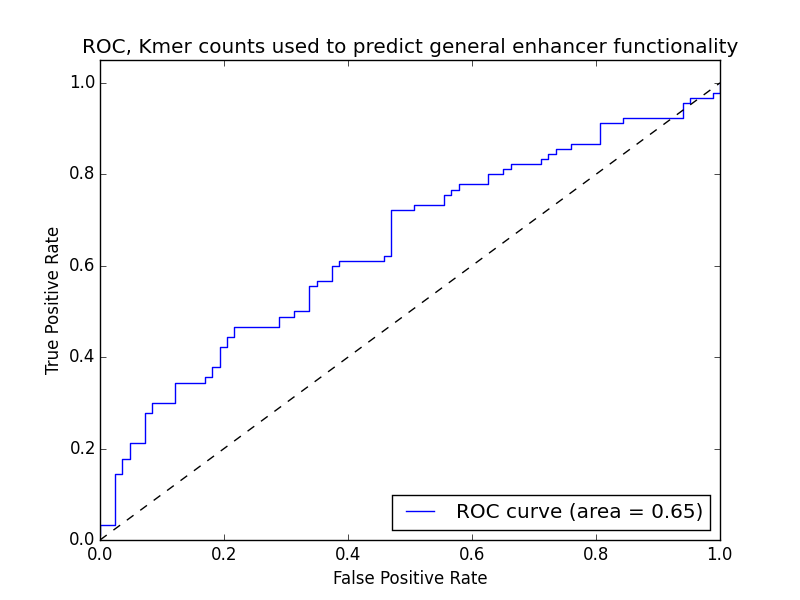
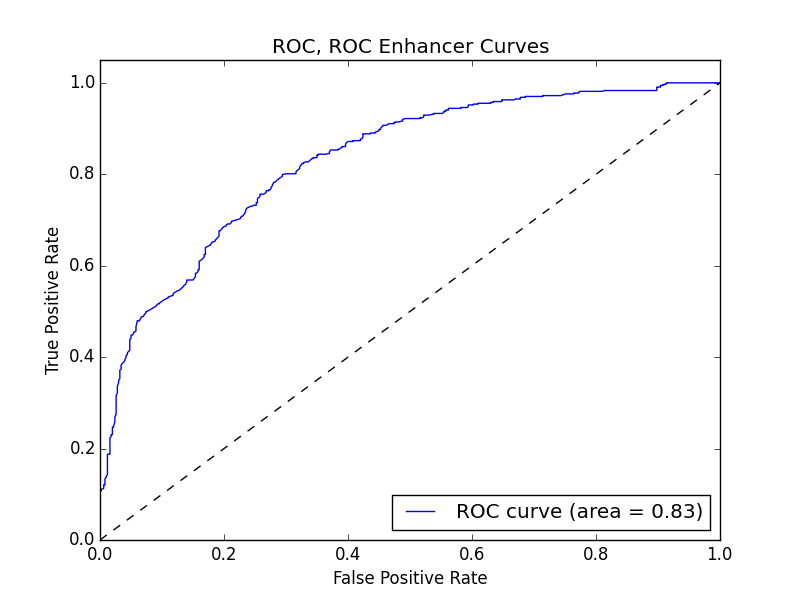
Better roc + one-v-one for tissues.

diff --git a/src/fg_clf.py b/src/fg_clf.py
@@ -37,9 +37,11 @@ from sklearn.feature_selection import chi2
 
 from matplotlib import pyplot as plt
 
-FEATURE_SELECTION = True
+FEATURE_SELECTION = False
 
 FOLD_CV = False
+
+SPLIT_CV = True
 
 PLOT_RESULTS = True
 
@@ -47,21 +49,36 @@ NORMALIZE = True
 
 GLOBAL_K = 6
 
-import time
+
+def fg_label_fn(d):
+    """ converts descriptions to multi-label
+    brain label.
+    Indices in label correspond to:
+        1 => "forebrain"
+        2 => "midbrain"
+        3 => "hindbrain"
+    """
+    label = [0, 0, 0]
+    for raw in description.split("|")[4:]:
+        line = raw.strip()
+        if "midbrain" in line:
+            label[0] = 1
+        if "forebrain" in line:
+            label[1] = 1
+        if "hindbrain" in line:
+            label[2] = 1
+    return label
+
+
 if __name__ == "__main__":
-    start = time.clock()
     parser = argparse.ArgumentParser()
     parser.add_argument("pos_exs", help="path to pos examples")
-    parser.add_argument("neg_exs", help="path to neg examples")
-    args = parser.parse_args()
+    parser.add_argument("neg_exs", help="path to neg examples", default=None)
 
     pos_dataset = args.pos_exs
     neg_dataset = args.neg_exs
 
-    pos_seq, pos_labels = parse_fa(pos_dataset, 1)
-    neg_seq, neg_labels = parse_fa(neg_dataset, -1)
-    examples = np.concatenate((pos_seq, neg_seq))
-    labels = np.concatenate((pos_labels, neg_labels))
+    examples, labels = parse_fa_fine_grain(pos_dataset, fg_label_fn)
 
     # feature vector index :=> kmer string
     kmers_index = get_kmers_index_lookup()
@@ -78,35 +95,43 @@ if __name__ == "__main__":
     taat_col = get_taat_col(examples)
     X = np.hstack((X, taat_col))
 
-    clf = svm.SVC(kernel='rbf')
+    clf = None
+    if prediction_type != "enhancer":
+        svc = svm.SVC(kernel='rbf')
+        clf = OneVsRestClassifier(svc)
+    else:
+        clf = svm.SVC(kernel='rbf')
 
     if FEATURE_SELECTION:
         print "Feature selecting top 10 features"
         # Remove low-variance features
         # K-best features
-        X = SelectKBest(chi2, k=600).fit_transform(X, y)
+        X = SelectKBest(chi2, k=10).fit_transform(X, y)
 
     if FOLD_CV:
         print "Performing 5-fold cv"
         scores = cv.cross_val_score(
-            clf, Xt, y, cv=5, scoring="roc_auc"
+            clf, X, y, cv=5, scoring="roc_auc"
         )
         print "%d-fold cv, average auRoc %f" % (len(scores), scores.mean())
 
-    if PLOT_RESULTS:
+    if SPLIT_CV:
         print "Performing train/test split cv"
         X_train, X_test, y_train, y_test = cv.train_test_split(
             X, y, test_size=0.3, random_state=0
         )
         clf.fit(X_train, y_train)
 
-        print "Plotting results"
-        y_scores = clf.decision_function(X_test)
-        plot_roc(y_test, y_scores, "ROC Enhancer", 
-            out="figures/roc-curve-enh-fsel.png")
-        # plot_precision_recall(y_true, y_scores)
-        # plot_2d_results(X_test, y_test, clf.predict(X_test))
-        print "Done plotting"
-    
-    end = time.clock()
-    print "time taken : %fs" % (end - start)
+        if PLOT_RESULTS:
+            print "Plotting results"
+            # transform labels from [-1,1] to [0,1]
+            if prediction_type == "enhancer":
+                y_true = label_binarize(y_test, classes=[-1, 1])
+            else:
+                y_true = y_test
+
+            y_scores = clf.decision_function(X_test)
+
+            plot_roc(y_true, y_scores, prediction_type)
+            # plot_precision_recall(y_true, y_scores)
+            # plot_2d_results(X_test, y_test, clf.predict(X_test))

diff --git a/src/tissue_clf.py b/src/tissue_clf.py
@@ -37,31 +37,63 @@ from sklearn.feature_selection import chi2
 
 from matplotlib import pyplot as plt
 
-FEATURE_SELECTION = True
+FEATURE_SELECTION = False
 
-FOLD_CV = False
+FOLD_CV = True
 
-PLOT_RESULTS = True
+PLOT_RESULTS = False
 
 NORMALIZE = True
 
 GLOBAL_K = 6
 
-import time
+
+# ==========================================================
+
+
+tissues = ["limb", "heart"]
+
+
+def filter_fn(d):
+    for raw in d.split("|")[4:]:
+        for part in tissues:
+            if part in raw:
+                return True
+    return False
+
+
+def one_v_all(d):
+    label = [0, 0, 0, 0]
+    for raw in d.split("|")[4:]:
+        line = raw.strip()
+        if "brain" in line:
+            label[0] = 1
+        if "limb" in line:
+            label[1] = 1
+        if "heart" in line:
+            label[2] = 1
+        if "neural" in line:
+            label[3] = 1
+    return label
+
+
+def one_v_one(d):
+    for raw in d.split("|")[4:]:
+        if tissues[0] in raw:
+            return 1
+        elif tissues[1] in raw:
+            return -1
+        else:
+            raise Exception("Shouldn't have more than two classes here")
+
+
 if __name__ == "__main__":
-    start = time.clock()
     parser = argparse.ArgumentParser()
     parser.add_argument("pos_exs", help="path to pos examples")
-    parser.add_argument("neg_exs", help="path to neg examples")
     args = parser.parse_args()
 
     pos_dataset = args.pos_exs
-    neg_dataset = args.neg_exs
-
-    pos_seq, pos_labels = parse_fa(pos_dataset, 1)
-    neg_seq, neg_labels = parse_fa(neg_dataset, -1)
-    examples = np.concatenate((pos_seq, neg_seq))
-    labels = np.concatenate((pos_labels, neg_labels))
+    examples, labels = parse_fa_tissue(pos_dataset, one_v_all, filter_fn)
 
     # feature vector index :=> kmer string
     kmers_index = get_kmers_index_lookup()
@@ -78,7 +110,8 @@ if __name__ == "__main__":
     taat_col = get_taat_col(examples)
     X = np.hstack((X, taat_col))
 
-    clf = svm.SVC(kernel='rbf')
+    clf = svm.SVC(kernel='linear')
+    # clf = OneVsRestClassifier(svc)
 
     if FEATURE_SELECTION:
         print "Feature selecting top 10 features"
@@ -89,12 +122,11 @@ if __name__ == "__main__":
     if FOLD_CV:
         print "Performing 5-fold cv"
         scores = cv.cross_val_score(
-            clf, Xt, y, cv=5, scoring="roc_auc"
+            clf, X, y, cv=5, scoring="roc_auc"
         )
         print "%d-fold cv, average auRoc %f" % (len(scores), scores.mean())
 
     if PLOT_RESULTS:
-        print "Performing train/test split cv"
         X_train, X_test, y_train, y_test = cv.train_test_split(
             X, y, test_size=0.3, random_state=0
         )
@@ -102,11 +134,8 @@ if __name__ == "__main__":
 
         print "Plotting results"
         y_scores = clf.decision_function(X_test)
-        plot_roc(y_test, y_scores, "ROC Enhancer", 
-            out="figures/roc-curve-enh-fsel.png")
+        plot_roc(y_test, y_scores, "ROC Tissue", 
+            out="figures/roc-curve-tis.png")
         # plot_precision_recall(y_true, y_scores)
         # plot_2d_results(X_test, y_test, clf.predict(X_test))
         print "Done plotting"
-    
-    end = time.clock()
-    print "time taken : %fs" % (end - start)

diff --git a/src/plot.py b/src/plot.py
@@ -26,7 +26,7 @@ def plot_2d_results(X, y, preds):
 
     # Plot mispredictions
     plt.figure()
-    diff = np.array([1 if y_test[i] == preds[i] else 0 for i in range(len(y_test))])
+    diff = np.array([1 if y_true[i] == preds[i] else 0 for i in range(len(y_true))])
     cs = "rg"
     cats = [0, 1]
     target_names = ["incorrect", "correct"]
@@ -38,40 +38,46 @@ def plot_2d_results(X, y, preds):
     plt.savefig("figures/residual-scatter.png")
 
 
-def plot_precision_recall(y_test, y_scores):
-    precision, recall, thresholds = precision_recall_curve(y_test, y_scores)
+def plot_precision_recall(y_true, y_scores):
+    precision, recall, thresholds = precision_recall_curve(y_true, y_scores)
     plt.figure()
     plt.plot(recall, precision, 'g-')
     plt.title("Precision-Recall Curve")
     plt.savefig("figures/pr-curve.png")
 
 
-def plot_roc(y_test, y_score, prediction_type):
+def plot_roc(y_true, y_score, title, out="figures/roc-curve.png"):
     fpr = dict()
     tpr = dict()
     roc_auc = dict()
+
+    is_1d = len(y_true.shape) == 1
+
     # Plot a curve for each label
-    n_examples, n_labels = y_test.shape
-    if n_labels == None:
-        n_labels = 1
-    for i in range(n_labels):
-        fpr[i], tpr[i], _ = roc_curve(y_test[:, i], y_score[:, i])
-        roc_auc[i] = auc(fpr[i], tpr[i])
+    if is_1d: 
+        fpr[0], tpr[0], _ = roc_curve(y_true, y_score)
+        roc_auc[0] = auc(fpr[0], tpr[0])
+    else:
+        for i in range(y_true.shape[1]):
+            fpr[i], tpr[i], _ = roc_curve(y_true[:, i], y_score[:, i])
+            roc_auc[i] = auc(fpr[i], tpr[i])
+
     # Compute micro-average ROC curve and ROC area
-    fpr["micro"], tpr["micro"], _ = roc_curve(y_test.ravel(), y_score.ravel())
+    fpr["micro"], tpr["micro"], _ = roc_curve(y_true.ravel(), y_score.ravel())
     roc_auc["micro"] = auc(fpr["micro"], tpr["micro"])
     # Plot of a ROC curve for a specific class
-    for i in range(n_labels):
-        plt.figure()
-        plt.plot(fpr[i], tpr[i], label='ROC curve (area = %0.2f)' % roc_auc[i])
-        plt.plot([0, 1], [0, 1], 'k--')
-        plt.xlim([0.0, 1.0])
-        plt.ylim([0.0, 1.05])
-        plt.xlabel('False Positive Rate')
-        plt.ylabel('True Positive Rate')
-        plt.title('ROC, %s' % prediction_type)
+    for i in fpr.keys(): 
+        if i != "micro":
+            plt.figure()
+            plt.plot(fpr[i], tpr[i], label='ROC curve (area = %0.2f)' % roc_auc[i])
+            plt.plot([0, 1], [0, 1], 'k--')
+            plt.xlim([0.0, 1.0])
+            plt.ylim([0.0, 1.05])
+            plt.xlabel('False Positive Rate')
+            plt.ylabel('True Positive Rate')
+            plt.title(title)
 
     plt.legend(loc="lower right")
     # plt.show()
-    plt.savefig("roc-curve.png")
+    plt.savefig(out)
 

diff --git a/src/features.py b/src/features.py
@@ -6,6 +6,7 @@ import itertools
 import numpy as np
 from Bio import SeqIO
 
+GLOBAL_K = 6
 
 # === Part 1: Kmer classifiers ===
 
@@ -77,11 +78,12 @@ def parse_fa(path, label):
         seqs.append(str(entry.seq).replace("n", "").lower())
         _labels.append(float(label))
 
+    seqs = np.array(seqs)
     _labels = np.array(_labels)
     return (seqs, _labels)
 
 
-def parse_fa_tissue(path, label_fn):
+def parse_fa_tissue(path, label_fn, filter_fn):
     """ 
     Given 
         fasta file that represents positive labels
@@ -98,14 +100,16 @@ def parse_fa_tissue(path, label_fn):
     _labels = []
 
     for entry in human_fasta_seq:
-        seqs.append(str(entry.seq).replace("n", "").lower())
-        _labels.append(label_fn(entry.description))
+        if filter_fn(entry.description):
+            seqs.append(str(entry.seq).replace("n", "").lower())
+            _labels.append(label_fn(entry.description))
 
+    seqs = np.array(seqs)
     _labels = np.array(_labels)
     return (seqs, _labels)
 
 
-def parse_fa_fine_grain(path, label_fn):
+def parse_fa_fine_grain(path, label_fn, filter_fn):
     """ 
     Given 
         fasta file that represents positive labels
@@ -121,9 +125,11 @@ def parse_fa_fine_grain(path, label_fn):
     _labels = []
 
     for entry in human_fasta_seq:
-        seqs.append(str(entry.seq).replace("n", "").lower())
-        _labels.append(label_fn(entry.description))
+        if filter_fn(entry.description):
+            seqs.append(str(entry.seq).replace("n", "").lower())
+            _labels.append(label_fn(entry.description))
 
+    seqs = np.array(seqs)
     _labels = np.array(_labels)
     return (seqs, _labels)
 
